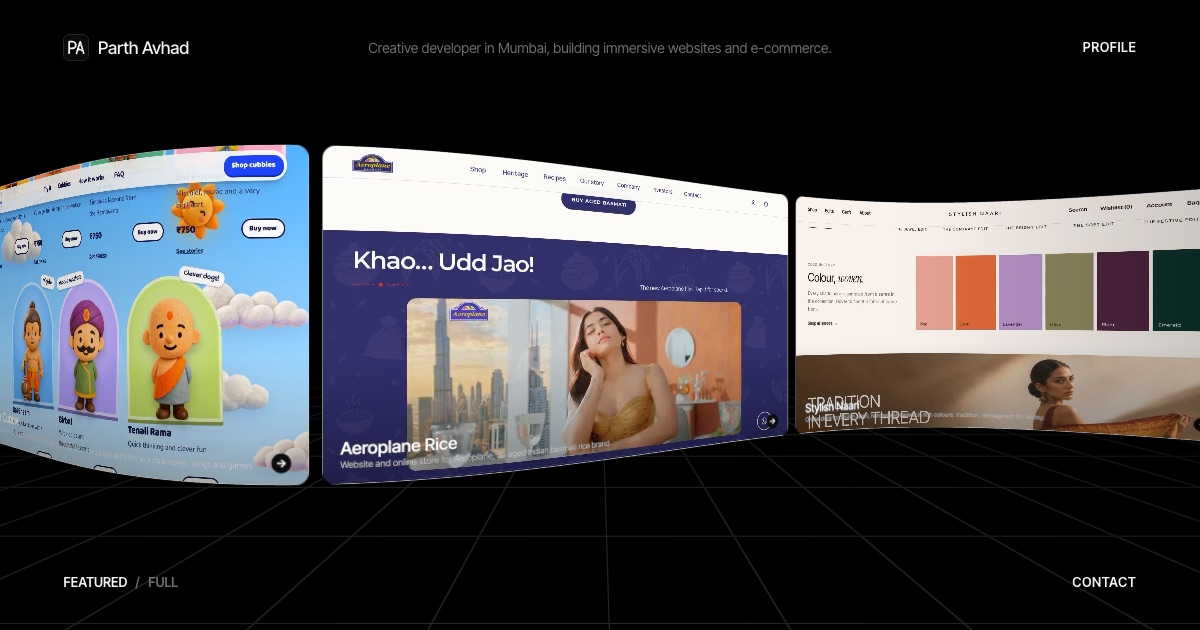
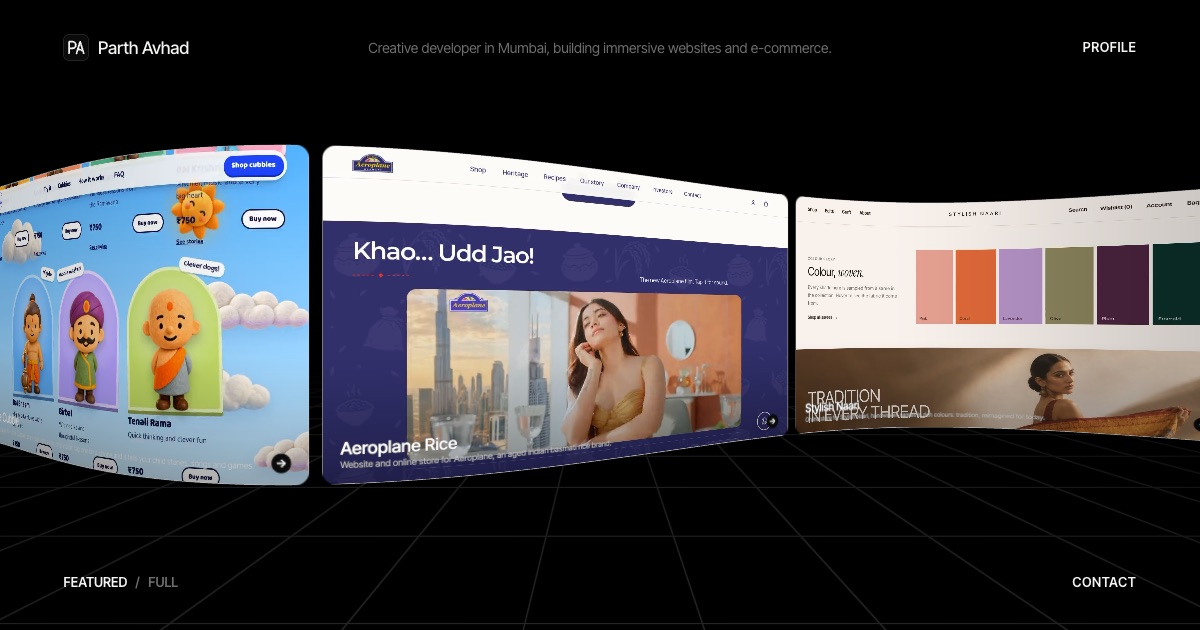
Move Shiorra to right after Libre

diff --git a/index.html b/index.html
@@ -18,7 +18,7 @@
     <meta property="og:type" content="website" />
     <meta property="og:site_name" content="Parth Avhad" />
     <meta property="og:title" content="Parth Avhad — Creative Developer" />
-    <meta property="og:description" content="Creative developer in Mumbai, building immersive websites and e-commerce. Selected work: Libre, Little Cubbie, Aeroplane Rice, Stylish Naari, Shiorra, Yobo, Quint Home, Tatvyra and Infinity Services." />
+    <meta property="og:description" content="Creative developer in Mumbai, building immersive websites and e-commerce. Selected work: Libre, Shiorra, Little Cubbie, Aeroplane Rice, Stylish Naari, Yobo, Quint Home, Tatvyra and Infinity Services." />
     <meta property="og:url" content="https://parths-portfolio.vercel.app/" />
     <meta property="og:image" content="https://parths-portfolio.vercel.app/og-image.jpg" />
     <meta property="og:image:width" content="1200" />
@@ -43,10 +43,10 @@
         <h2>Selected work</h2>
         <ul>
           <li><a href="https://www.drinklibre.in" style="color:inherit">Libre</a>: premium non-alcoholic wine brand with an immersive 3D e-commerce website.</li>
+          <li><a href="https://shiorra.com" style="color:inherit">Shiorra</a>: wellness e-commerce, product design and frontend development.</li>
           <li><a href="https://campaign.littlecubbie.com" style="color:inherit">Little Cubbie</a>: landing page for a brand of story toys.</li>
           <li><a href="https://aeroplane-rice.vercel.app" style="color:inherit">Aeroplane Rice</a>: website and online store for an aged Indian basmati rice brand.</li>
           <li><a href="https://stylish-naari.vercel.app" style="color:inherit">Stylish Naari</a>: online store for handwoven sarees.</li>
-          <li><a href="https://shiorra.com" style="color:inherit">Shiorra</a>: wellness e-commerce, product design and frontend development.</li>
           <li><a href="https://yobo-beta.vercel.app" style="color:inherit">Yobo</a>: e-commerce website for a lingerie brand.</li>
           <li><a href="https://www.quinthome.in" style="color:inherit">Quint Home</a>: e-commerce for a Mumbai home-fragrance brand.</li>
           <li><a href="https://tatvyra.vercel.app" style="color:inherit">Tatvyra</a>: website for a clean-label wellness food brand.</li>

diff --git a/src/data/projects.js b/src/data/projects.js
@@ -125,6 +125,18 @@ export const projects = [
     palette: ['#3a0f17', '#e7b9a4', '#f6e9df'],
   },
   {
+    id: 'shiorra',
+    title: 'Shiorra',
+    category: 'Wellness E-commerce',
+    year: '',
+    summary: 'Premium wellness e-commerce — product design and frontend development.',
+    description: 'Storefront for Shiōrra, a range of pregnancy and daily-energy supplements.',
+    technologies: [],
+    links: [{ label: 'Live site', href: 'https://shiorra.com' }],
+    ...media('shiorra'),
+    palette: ['#e7ddd0', '#6b7a5b', '#2b2a24'],
+  },
+  {
     id: 'little-cubbie',
     title: 'Little Cubbie',
     category: 'Landing Page',
@@ -162,18 +174,6 @@ export const projects = [
     ...media('stylish-naari'),
     gallery: [2, 3, 4, 5].map((n) => `/images/projects/stylish-naari-${n}.webp`),
     palette: ['#f3ece2', '#7a1f2b', '#2a1d16'],
-  },
-  {
-    id: 'shiorra',
-    title: 'Shiorra',
-    category: 'Wellness E-commerce',
-    year: '',
-    summary: 'Premium wellness e-commerce — product design and frontend development.',
-    description: 'Storefront for Shiōrra, a range of pregnancy and daily-energy supplements.',
-    technologies: [],
-    links: [{ label: 'Live site', href: 'https://shiorra.com' }],
-    ...media('shiorra'),
-    palette: ['#e7ddd0', '#6b7a5b', '#2b2a24'],
   },
   {
     id: 'yobo',
